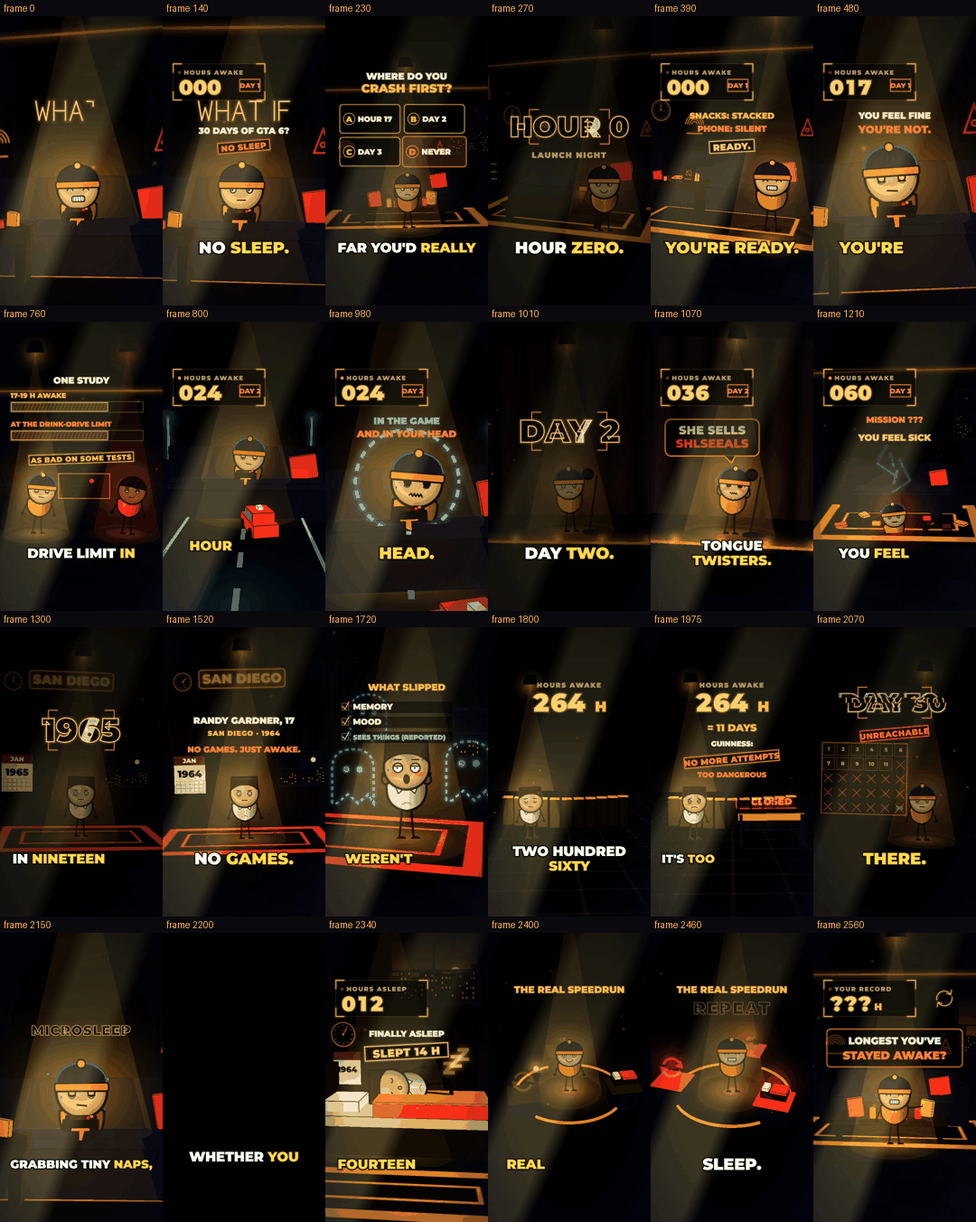
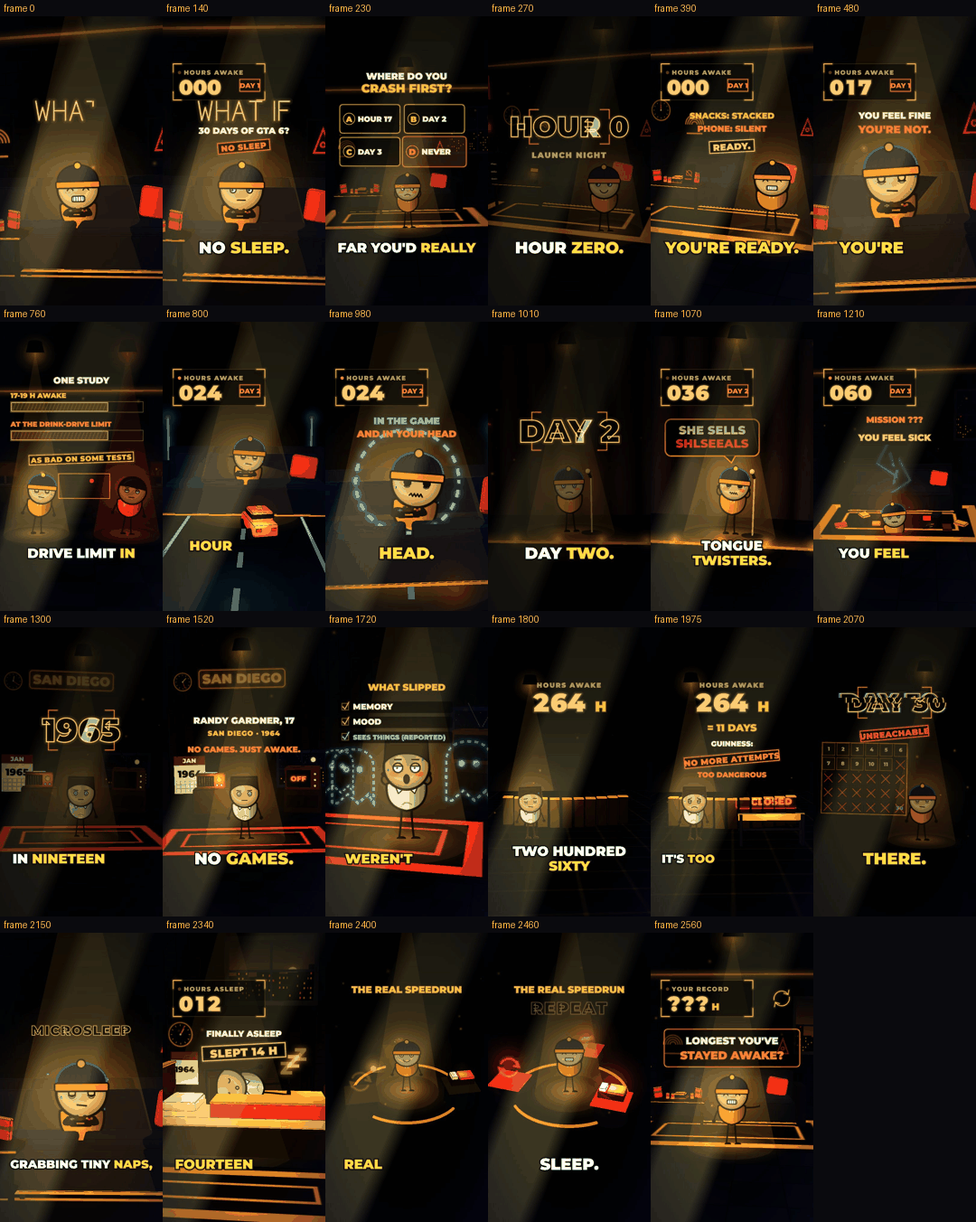
wi-gta-nosleep: Blender props (12 glb) + lighting rig in every scene
Glb loader in the Stick3D toon look (outlines, emissive parts unlit, box fallback); couch, side table,
snacks, controller, phone, toy car, mic, 1964 radio/TV/bed; key + fill + rim + practical lights per scene.

Claude-Session: https://claude.ai/code/session_019RediFF51hqccXe4quizri

diff --git a/episodes/wi-gta-nosleep/story.tsx b/episodes/wi-gta-nosleep/story.tsx
@@ -23,6 +23,7 @@ import { Person, V3, clamp, Lights, Grade } from "../../library/stick3d/kit";
 import { NEON3D, REMY3D } from "../../src/tests/Stick3DTest";
 import { Floor, WallDoor, SideWall, Shelf, Lamp, Monitor, Cabinet, Rug, Shaft, Dust } from "../../library/stick3d/props";
 import { Cam, Key, Taxi, Barrier, Curtain } from "../../library/stick3d/extra";
+import { Glb } from "../../library/stick3d/glb";
 import { drawPuppet, Look, Pose } from "../../library/stick3d/puppet";
 import { N3, FONT3, Halo, FloorPool, NeonBar, HeroLight, Motes, Panel, NeonSign, NeonClock, NightWindow, NeonPoster } from "../../library/stick3d/neon";
 import scenes from "../../content/scripts/wi-gta-nosleep.json";
@@ -49,8 +50,16 @@ const ck = (u: number, pos: V3, look: V3, fov = 46, roll = 0): Key => ({ t: u / 
 const Shot: React.FC<{ u: number; keys: Key[]; kicks?: number[]; impacts?: [number, number][] }> = ({ u, keys, kicks = [], impacts = [] }) =>
   <Cam t={u / FPS} keys={keys} fovKick={kicks.map((x) => x / FPS)} impacts={impacts.map(([a, b]) => [a / FPS, b] as [number, number])} />;
 /** the pack's Lights (Stick3DTest: warm "#ffd59a") + its gold light Shaft and Dust, as in the install test */
-const Lights3: React.FC<{ warm?: string; k?: number }> = ({ warm = "#ffd59a" }) => (<>
-  <Lights warm={warm} />
+/** Lighting rig for every scene: warm KEY from front-top, cool sky/ground FILL, gold RIM from behind the hero, a soft
+ *  pool over the hero, plus motivated practicals (lamp, TV/game glow, neon, window) as point lights; the pack's Shaft. */
+type Prac = [V3, string, number];
+const Lights3: React.FC<{ warm?: string; k?: number; hero?: V3; prac?: Prac[]; rim?: string }> = ({ warm = "#ffd59a", k: kk = 1, hero = [0, 0, 0], prac = [], rim = N3.gold }) => (<>
+  <ambientLight intensity={0.6 * kk} />
+  <hemisphereLight args={["#8fa4e0", "#2a1a10", 0.75 * kk]} />
+  <directionalLight position={[hero[0] + 4, 8, hero[2] + 7]} intensity={1.7 * kk} color={warm} />
+  <directionalLight position={[hero[0] - 3, 5, hero[2] - 8]} intensity={1.3} color={rim} />
+  <pointLight position={[hero[0], 3.4, hero[2] + 0.8]} intensity={9} distance={7} decay={2} color={N3.amber} />
+  {prac.map(([pp, c, i], j) => <pointLight key={j} position={pp} intensity={i} distance={9} decay={2} color={c} />)}
   <Shaft p={[0, 4, -1]} s={[3, 9]} color="245,185,66" o={0.14} />
 </>);
 /** puppet (Person) with a warm rim halo behind it so it separates from the dark room */
@@ -61,9 +70,10 @@ const Hero: React.FC<{ p: V3; look: Look; pose: Omit<Pose, "t">; f: number; h?: 
 /** small game controller held at a puppet's hands (arms "hold") */
 const Pad: React.FC<{ p: V3; f: number; rot?: V3 }> = ({ p, f, rot = [0.35, 0, 0] }) => (
   <group position={[p[0] + Math.sin(f * 1.7) * 0.01, p[1] + Math.sin(f * 2.3) * 0.012, p[2]]} rotation={rot}>
-    <Box p={[0, 0, 0]} s={[0.56, 0.12, 0.26]} color="#1c2032" line={2} />
-    <Box p={[-0.24, -0.02, 0.1]} s={[0.16, 0.12, 0.2]} color="#1c2032" line={2} /><Box p={[0.24, -0.02, 0.1]} s={[0.16, 0.12, 0.2]} color="#1c2032" line={2} />
-    <Ball p={[0.13, 0.07, 0]} r={0.03} color={N3.coral} ink={0.01} /><Ball p={[0.19, 0.07, -0.05]} r={0.03} color={N3.gold} ink={0.01} />
+    <Glb name="game_controller" line={2} fallback={<>
+      <Box p={[0, 0, 0]} s={[0.56, 0.12, 0.26]} color="#1c2032" line={2} />
+      <Box p={[-0.24, -0.02, 0.1]} s={[0.16, 0.12, 0.2]} color="#1c2032" line={2} /><Box p={[0.24, -0.02, 0.1]} s={[0.16, 0.12, 0.2]} color="#1c2032" line={2} />
+      <Ball p={[0.13, 0.07, 0]} r={0.03} color={N3.coral} ink={0.01} /><Ball p={[0.19, 0.07, -0.05]} r={0.03} color={N3.gold} ink={0.01} /></>} />
     <Halo p={[0, 0.05, 0.05]} r={0.25} color={N3.gold} o={0.25} />
   </group>
 );
@@ -77,18 +87,19 @@ const SNACK_COLS = [N3.coral, N3.gold, "#2a3355", N3.amber, "#7a2f26"];
 /** snacks on the coffee table; n = how many have popped in (fraction pops) */
 const Snacks: React.FC<{ n: number; x?: number; z?: number; y?: number }> = ({ n, x = 0, z = 0.9, y = 0.62 }) => {
   const items = [
-    (s: number) => <Box p={[-1.15, 0.3 * s, 0]} s={[0.5, 0.62, 0.18]} rot={[0, 0.3, 0.12]} color={N3.coral} line={3} />,
-    (s: number) => <Cyl p={[-0.55, 0.17 * s, 0.2]} rt={0.1} h={0.34} color={N3.gold} line={2} />,
-    (s: number) => <Box p={[0.1, 0.06 * s, -0.15]} s={[0.95, 0.1, 0.95]} color="#b9772e" line={3} />,
-    (s: number) => <Cyl p={[0.9, 0.17 * s, 0.1]} rt={0.1} h={0.34} color={N3.coral} line={2} />,
+    (s: number) => <Glb name="chips_bag" p={[-1.15, 0, 0]} rot={[0, 0.3, 0.12]} fallback={<Box p={[-1.15, 0.3 * s, 0]} s={[0.5, 0.62, 0.18]} rot={[0, 0.3, 0.12]} color={N3.coral} line={3} />} />,
+    (s: number) => <Glb name="soda_can" p={[-0.55, 0, 0.2]} line={2} fallback={<Cyl p={[-0.55, 0.17 * s, 0.2]} rt={0.1} h={0.34} color={N3.gold} line={2} />} />,
+    (s: number) => <Glb name="pizza_box" p={[0.1, 0, -0.15]} fallback={<Box p={[0.1, 0.06 * s, -0.15]} s={[0.95, 0.1, 0.95]} color="#b9772e" line={3} />} />,
+    (s: number) => <Glb name="soda_can" p={[0.9, 0, 0.1]} rot={[0, 1, 0]} line={2} fallback={<Cyl p={[0.9, 0.17 * s, 0.1]} rt={0.1} h={0.34} color={N3.coral} line={2} />} />,
     (s: number) => <Box p={[0.1, 0.16 * s, -0.15]} s={[0.8, 0.1, 0.8]} color="#2a3355" line={3} />,
-    (s: number) => <Box p={[1.2, 0.27 * s, -0.25]} s={[0.42, 0.55, 0.16]} rot={[0, -0.4, -0.1]} color={N3.amber} line={3} />,
-    (s: number) => <Cyl p={[-0.2, 0.25 * s, 0.35]} rt={0.1} h={0.34} color="#7a2f26" line={2} />,
+    (s: number) => <Glb name="chips_bag" p={[1.2, 0, -0.25]} rot={[0, -0.4, -0.1]} s={0.9} fallback={<Box p={[1.2, 0.27 * s, -0.25]} s={[0.42, 0.55, 0.16]} rot={[0, -0.4, -0.1]} color={N3.amber} line={3} />} />,
+    (s: number) => <Glb name="soda_can" p={[-0.2, 0.0, 0.35]} rot={[0, 2, 0]} line={2} fallback={<Cyl p={[-0.2, 0.25 * s, 0.35]} rt={0.1} h={0.34} color="#7a2f26" line={2} />} />,
     (s: number) => <Box p={[0.15, 0.26 * s, -0.15]} s={[0.6, 0.1, 0.6]} color={N3.gold} line={3} />,
   ];
   return <group position={[x, y, z]}>{items.map((it, i) => { const s = clamp(n - i); return s > 0.01 ? <group key={i} scale={[s, s, s]}>{it(s)}</group> : null; })}</group>;
 };
-const Couch: React.FC<{ z?: number }> = ({ z = -1.3 }) => (
+const Couch: React.FC<{ z?: number }> = ({ z = -1.3 }) => <Glb name="couch" p={[0, 0, z]} fallback={<CouchBox z={z} />} />;
+const CouchBox: React.FC<{ z?: number }> = ({ z = -1.3 }) => (
   <group position={[0, 0, z]}>
     <Box p={[0, 0.42, 0]} s={[4.8, 0.84, 1.5]} color={N3.navy2} />
     <Box p={[0, 1.3, -0.62]} s={[4.8, 1.3, 0.34]} color={N3.navy2} />
@@ -104,10 +115,10 @@ const Table: React.FC<{ z?: number }> = ({ z = 0.9 }) => (
   </group>
 );
 /** Remy's gaming den (navy brick, gold/coral neon, night window, clock, shelf, lamp, couch, table, rug, beanbag) */
-const GamerRoom: React.FC<{ t: number; dawn?: number; clockH?: number; table?: boolean; snacks?: number; tvGlow?: number; decor?: boolean }> = ({ t, dawn = 0, clockH = 0, table = true, snacks = 8, tvGlow = 1, decor = true }) => {
+const GamerRoom: React.FC<{ t: number; dawn?: number; clockH?: number; table?: boolean; snacks?: number; tvGlow?: number; decor?: boolean; hero?: V3 }> = ({ t, dawn = 0, clockH = 0, table = true, snacks = 8, tvGlow = 1, decor = true, hero = [0, 0, -1.35] }) => {
   const tv = tvGlow * (0.75 + 0.25 * Math.abs(Math.sin(t * 9.3) * Math.cos(t * 3.9)));
   return (<>
-    <Lights3 warm={dawn > 0.4 ? "#ffd59a" : "#ffcf9a"} k={0.95 + 0.15 * dawn} />
+    <Lights3 warm={dawn > 0.4 ? "#ffd59a" : "#ffcf9a"} k={0.95 + 0.15 * dawn} hero={hero} prac={[[[7.2, 2.6, -2.9], N3.amber, 14], [[4.4, 3.9, -4.2], dawn > 0.3 ? N3.amber : "#7d8fd8", 6 + 14 * dawn], [[0, 5.9, -4.3], N3.gold, 8], [[-6.0, 3.0, -4.3], N3.coral, 6]]} />
     <Floor kind="tile" a={NEON3D.floorA} b={NEON3D.floorB} w={30} d={44} />
     <WallDoor z={-5} W={24} kind="brick" a={NEON3D.wallA} b={NEON3D.wallB} />
     <SideWall x={-9} kind="plain" a="#0e1120" b="#0e1120" />
@@ -126,7 +137,7 @@ const GamerRoom: React.FC<{ t: number; dawn?: number; clockH?: number; table?: b
     <Rug p={[0, 0, 0.3]} s={[7.5, 4.4]} a="#120d09" b={N3.gold} />
     <Couch />
     {/* snack side table beside the couch (not in the foreground: nothing important in the caption band) */}
-    {table && <><group position={[-1.9, 0, -0.2]} scale={[0.6, 1.75, 0.8]}><Table z={0} /></group><group position={[-1.9, 0, -0.2]} scale={[0.6, 0.6, 0.6]}><Snacks n={snacks} x={0} z={0} y={1.72} /></group></>}
+    {table && <><Glb name="side_table" p={[-1.9, 0, -0.2]} fallback={<group position={[-1.9, 0, -0.2]} scale={[0.6, 1.75, 0.8]}><Table z={0} /></group>} /><group position={[-1.9, 0, -0.2]} scale={[0.6, 0.6, 0.6]}><Snacks n={snacks} x={0} z={0} y={1.72} /></group></>}
     <pointLight position={[0, 1.8, 4.0]} intensity={6 * tv} distance={10} decay={1.4} color="#ffcf9a" />
     <Halo p={[0, 1.6, 2.6]} r={2.6} color={N3.amber} o={0.05 * tv} />
     <Motes t={t} n={10} c={[0, 0.5, -1]} area={[5, 5, 3]} />
@@ -161,7 +172,7 @@ const build = (id: string, f: number, u: number, len: number, C: (p: string, fb:
     case "crash": { // the only CHOICE CARDS: where do you crash first? Remy stands on the rug scratching his beanie
       const pick = u < 24 ? -1 : Math.floor((u - 24) / 10) % 4;
       const world = <>
-        <GamerRoom t={t} />
+        <GamerRoom t={t} hero={[0.2, 0, 2.2]} />
         <Hero p={[0.2, 0, 2.2]} look={REMY} pose={{ arms: "head", mood: "worry", nerv: 0.5, lookX: pick >= 0 ? [-1, 1, -1, 1][pick] : 0 }} f={f} rimO={0.4} />
         <HeroLight p={[0.2, 0, 2.2]} h={6} r={1.3} t={t} />
         <Shot u={u} keys={[ck(0, [-0.8, 3.3, 15.2], [0.1, 2.56, 2.2], 46, -0.02), ck(len, [0.2, 3.2, 14.8], [0.2, 2.54, 2.2], 46, 0.02)]} />
@@ -182,10 +193,10 @@ const build = (id: string, f: number, u: number, len: number, C: (p: string, fb:
       const ready = u >= YR;
       const jump = ready ? Math.max(0, Math.sin(((u - YR) / 14) * Math.PI)) * (u - YR < 14 ? 1 : 0) : 0;
       const world = <>
-        <GamerRoom t={t} snacks={nSn} />
+        <GamerRoom t={t} snacks={nSn} hero={[1.9, 0, 1.6]} />
         <group position={[-1.3, 1.07, 0.05]} rotation={[-0.35, 0.2, 0]}>
-          <Box p={[0, 0.3, 0]} s={[0.4, 0.7, 0.05]} color="#11131f" line={3} />
-          <Panel p={[0, 0.3, 0.03]} s={[0.34, 0.62]} px={[136, 248]} dep={(silent ? 1 : 0) + Math.floor(u / 6) % 2 * 2} draw={(c, W, H) => {
+          <Glb name="smartphone" p={[0, 0.3, 0]} line={2} fallback={<Box p={[0, 0.3, 0]} s={[0.4, 0.7, 0.05]} color="#11131f" line={3} />} />
+          <Panel p={[0, 0.3, 0.035]} s={[0.34, 0.62]} px={[136, 248]} dep={(silent ? 1 : 0) + Math.floor(u / 6) % 2 * 2} draw={(c, W, H) => {
             c.fillStyle = "#0a0c16"; c.fillRect(0, 0, W, H); c.textAlign = "center"; c.font = `900 26px ${FONT3}`;
             if (silent) { c.strokeStyle = CORAL; c.lineWidth = 7; c.beginPath(); c.arc(W / 2, H * 0.42, 34, Math.PI, 0); c.lineTo(W / 2 + 34, H * 0.55); c.lineTo(W / 2 - 34, H * 0.55); c.closePath(); c.stroke(); c.beginPath(); c.moveTo(W / 2 - 46, H * 0.3); c.lineTo(W / 2 + 46, H * 0.62); c.stroke(); c.fillStyle = CORAL; c.fillText("SILENT", W / 2, H * 0.8); }
             else { for (let i = 0; i < 3; i++) { c.fillStyle = i === 0 && Math.floor(u / 6) % 2 ? GOLD : "#2a2f45"; c.fillRect(12, 30 + i * 62, W - 24, 48); } }
@@ -227,7 +238,7 @@ const build = (id: string, f: number, u: number, len: number, C: (p: string, fb:
       const sway = Math.sin(f * 0.11) * (0.04 + 0.06 * k(u, AS, AS + 20, 0, 1));
       const slump = k(u, AS, AS + 16, 0, 1, EASE.arrive);
       const world = <>
-        <Lights3 />
+        <Lights3 hero={[0, 0, 0.6]} prac={[[[-3.6, 1.8, -2.9], N3.gold, 7], [[3.6, 1.8, -2.9], N3.gold, 7], [[0, 1.4, -4.3], N3.coral, 5], [[0, 5.3, -4.3], N3.gold, 8]]} />
         <Floor kind="tile" a="#141a2a" b="#10141f" w={30} d={44} />
         <WallDoor z={-5} W={24} kind="plain" a="#151a2b" b="#151a2b" />
         <NeonBar p={[0, 5.6, -4.9]} s={[13, 0.07, 0.05]} color={N3.gold} />
@@ -263,14 +274,14 @@ const build = (id: string, f: number, u: number, len: number, C: (p: string, fb:
       const roll = 0.05 * sway * (0.4 + 0.6 * head);
       const dash = (u * 0.09) % 1.6;
       const world = <>
-        <Lights3 k={0.8} />
+        <Lights3 k={0.75} hero={[0, 0, -7.5]} rim={N3.cyan} prac={[[[0, 0.6, -3], N3.cyan, 10], [[-2.6, 2.6, -5.6], N3.cyan, 8], [[2.6, 2.6, -2.4], N3.cyan, 8], [[sway * 0.9, 0.6, -4.9], N3.coral, 4]]} />
         <Floor kind="tile" a="#07080e" b="#090b12" w={30} d={40} />
         <mesh position={[0, 0.01, -2]} rotation={[-Math.PI / 2, 0, 0]}><planeGeometry args={[3.2, 30]} /><meshBasicMaterial color="#0d1220" /></mesh>
         {[-1.6, 1.6].map((x) => <NeonBar key={x} p={[x, 0.04, -2]} s={[0.06, 0.04, 30]} color={CYAN} glow={0} />)}
         {Array.from({ length: 14 }, (_, i) => <NeonBar key={i} p={[0, 0.03, 8 - i * 1.6 + dash]} s={[0.1, 0.03, 0.7]} color={CYAN} glow={0} o={0.8} />)}
         {Array.from({ length: 6 }, (_, i) => <group key={i}><NeonBar p={[i % 2 ? 2.6 : -2.6, 1.4, 4 - i * 3.2]} s={[0.06, 2.8, 0.06]} color={CYAN} glow={0.3} /><Halo p={[i % 2 ? 2.6 : -2.6, 2.85, 4 - i * 3.2]} r={0.5} color={CYAN} o={0.6} /></group>)}
         <FloorPool p={[0, 0, -2]} r={3} color={CYAN} o={0.15} sx={0.6} />
-        <group position={[sway * 0.9, 0, -5.6]} rotation={[0, Math.PI / 2 + 0.35 * Math.cos(u * 0.07), 0]} scale={0.32}><Taxi p={[0, 0, 0]} color={CORAL} /></group>
+        <group position={[sway * 0.9 - k(u, IG, IG + 36, 0, 5, Easing.in(Easing.quad)), 0, -5.6]} rotation={[0, Math.PI / 2 + 0.35 * Math.cos(u * 0.07), 0]}><Glb name="toy_car" fallback={<group scale={0.32}><Taxi p={[0, 0, 0]} color={CORAL} /></group>} /></group>
         <Halo p={[sway * 0.9, 0.3, -6.0]} r={0.6} color={CORAL} o={0.3} />
         <Couch z={-7.5} />
         <Hero p={[0, 0.2, -7.55]} look={REMY} pose={{ arms: "hold", mood: head > 0.5 ? "dizzy" : "tired", lids: 0.3, bags: 0.8, sweat: 0.5, tilt: 0.16 * sway }} f={f} shadow={false} rimO={0.5} />
@@ -298,15 +309,16 @@ const build = (id: string, f: number, u: number, len: number, C: (p: string, fb:
       const bp = pop(u, chapOut + 2, 12);
       const wob = Math.sin(f * 0.13) * 0.08 * k(u, BS, BS + 20, 0.3, 1);
       const world = <>
-        <Lights3 k={0.85} />
+        <Lights3 k={0.85} hero={[0.15, 0.5, 0.5]} rim={N3.coral} prac={[[[0, 0.9, 2.4], N3.amber, 12], [[-4.2, 4.6, -2.1], N3.coral, 6], [[4.2, 4.6, -2.1], N3.coral, 6], [[0, 3, -3.8], N3.coral, 5]]} />
         <Floor kind="plank" a="#16100b" b="#120d08" w={30} d={44} />
         <Curtain p={[0, 4.2, -4.6]} s={[16, 8.6]} color="#3a1612" folds={12} />
         <Box p={[0, 0.25, -0.5]} s={[9, 0.5, 5]} color="#1b1410" />
         <NeonBar p={[0, 0.52, 2.02]} s={[9, 0.06, 0.06]} color={N3.gold} />
         {Array.from({ length: 7 }, (_, i) => <Halo key={i} p={[-3.6 + i * 1.2, 0.62, 2.05]} r={0.32} color={N3.amber} o={0.7} />)}
-        <Cyl p={[0.9, 1.4, 0.75]} rt={0.03} h={1.8} color="#2b3350" line={2} rot={[0, 0, -0.15]} />
-        <Cyl p={[0.9, 0.55, 0.75]} rt={0.35} h={0.06} color="#2b3350" line={2} />
-        <Ball p={[0.76, 2.35, 0.78]} r={0.12} color="#3a3f55" />
+        <Glb name="mic_stand" p={[0.85, 0.5, 0.75]} rot={[0, -0.5, 0]} fallback={<>
+          <Cyl p={[0.9, 1.4, 0.75]} rt={0.03} h={1.8} color="#2b3350" line={2} rot={[0, 0, -0.15]} />
+          <Cyl p={[0.9, 0.55, 0.75]} rt={0.35} h={0.06} color="#2b3350" line={2} />
+          <Ball p={[0.76, 2.35, 0.78]} r={0.12} color="#3a3f55" /></>} />
         <Hero p={[0.15, 0.5, 0.5]} look={REMY} pose={{ mood: scr ? "dizzy" : "worry", nerv: 0.6, sweat: 0.6, lids: 0.25, bags: 0.8, tilt: wob, arms: scr ? "head" : "chest", armK: 0.9 }} f={f} rimO={0.5} />
         <HeroLight p={[0.15, 0.5, 0.5]} h={6} r={1.4} t={t} />
         {[-4.2, 4.2].map((x) => <group key={x}><Cyl p={[x, 2.2, -2.5]} rt={0.5} h={4.4} color="#1d2236" /><NeonBar p={[x, 4.45, -2.5]} s={[1.0, 0.06, 1.0]} color={N3.coral} glow={0.3} /></group>)}
@@ -330,7 +342,7 @@ const build = (id: string, f: number, u: number, len: number, C: (p: string, fb:
       const broken = k(u, FM + 16, FM + 50, 0, 1);
       const sick = u >= FS;
       const world = <>
-        <GamerRoom t={t} table={false} clockH={60} decor={false} />
+        <GamerRoom t={t} table={false} clockH={60} decor={false} hero={[0, 0, 1.5]} />
         {[[-2.4, 0.9, 0.4], [2.6, 0.6, -0.6], [1.6, -0.3, 1.2], [-1.6, -0.2, 2.2], [2.0, 1.0, 1.6]].map(([x, z, r], i) =>
           <Box key={i} p={[x, 0.06, z]} s={[0.5, 0.08, 0.36]} rot={[0, r, 0]} color={SNACK_COLS[i % 5]} line={3} />)}
         {[[-0.9, 0.8], [1.2, 0.2]].map(([x, z], i) => <Cyl key={i} p={[x, 0.1, z]} rt={0.1} h={0.34} rot={[0, 0, Math.PI / 2]} color={i ? N3.coral : N3.gold} line={2} />)}
@@ -361,7 +373,7 @@ const build = (id: string, f: number, u: number, len: number, C: (p: string, fb:
       const gp = isR ? 0 : k(u, ST - 4, ST + 18, 0, 1, EASE.arrive);
       const randyMood: Pose["mood"] = isR ? (u >= NG ? "deadpan" : u >= RG ? "smile" : "deadpan") : (u >= ST ? "shock" : u >= MO_ ? "worry" : "tired");
       const world = <>
-        <Lights3 warm="#ffd7a0" />
+        <Lights3 warm="#ffd7a0" hero={[isR ? 0 : 1.2, 0, 0.6]} prac={[[[4.6, 2.6, -1.2], N3.amber, 12], [[0, 5.8, -4.2], N3.gold, 9], [[-1.2, 1.6, -3.6], N3.amber, 5], [[2.8, 1.9, -4.4], "#7d8fd8", 5], ...(!isR ? [[[1.2, 2.4, -0.8], N3.cyan, 10 * gp] as Prac] : [])]} />
         <Floor kind="carpet" a="#1a1626" b="#16121f" w={30} d={44} />
         <WallDoor z={-5} W={24} kind="wood" a="#2a1b10" b="#23160c" />
         <SideWall x={-9} kind="wood" a="#24170d" b="#1f140b" />
@@ -373,18 +385,18 @@ const build = (id: string, f: number, u: number, len: number, C: (p: string, fb:
         <NeonSign p={[0, 6.2, -4.85]} s={[4.2, 1.0]} text="SAN DIEGO" color={N3.gold} box />
         <NightWindow p={[2.8, 1.9, -4.92]} s={[2.2, 1.5]} seed={9} palm />
         <NeonClock p={[-2.8, 6.1, -4.88]} r={0.45} hours={u / 200} />
-        <group position={[-6.2, 0, -3.6]}><Box p={[0, 0.55, 0]} s={[1.8, 1.1, 1.0]} color="#3a2412" /><Box p={[0, 1.45, 0.05]} s={[1.4, 0.7, 0.6]} color="#5a3a1e" />
-          <Panel p={[0, 1.45, 0.36]} s={[1.0, 0.45]} px={[200, 90]} dep={1} draw={(c, W, H) => { c.fillStyle = "#1a1008"; c.fillRect(0, 0, W, H); c.strokeStyle = N3.amber; c.lineWidth = 3; for (let x = 10; x < W * 0.6; x += 10) { c.beginPath(); c.moveTo(x, 8); c.lineTo(x, H - 8); c.stroke(); } c.fillStyle = N3.amber; c.beginPath(); c.arc(W * 0.8, H / 2, 18, 0, 7); c.fill(); }} />
-          <Halo p={[0.35, 1.45, 0.4]} r={0.25} color={N3.amber} o={0.5} /></group>
-        <group position={[6.0, 0, -3.2]}><Box p={[0, 0.5, 0]} s={[1.6, 1.0, 1.2]} color="#3a2412" /><Box p={[0, 1.55, 0]} s={[1.6, 1.2, 1.2]} color="#4a3220" />
-          <Box p={[-0.1, 1.55, 0.61]} s={[1.1, 0.85, 0.02]} color="#1c1f26" line={3} /><Cyl p={[-0.2, 2.45, 0]} rt={0.02} h={0.8} rot={[0, 0, 0.5]} color="#9aa0b8" line={1} /><Cyl p={[0.2, 2.45, 0]} rt={0.02} h={0.8} rot={[0, 0, -0.5]} color="#9aa0b8" line={1} />
-          {isR && u >= NG && <NeonSign p={[-0.1, 1.55, 0.65]} s={[1.0, 0.5]} text="OFF" color={N3.coral} />}</group>
+        {isR && <group position={[-1.5, 0, -4.2]}><Box p={[0, 0.55, 0]} s={[1.6, 1.1, 0.9]} color="#3a2412" /><Glb name="radio_1964" p={[0, 1.1, 0.05]} fallback={<><Box p={[0, 1.45, 0.05]} s={[1.4, 0.7, 0.6]} color="#5a3a1e" />
+          <Panel p={[0, 1.45, 0.36]} s={[1.0, 0.45]} px={[200, 90]} dep={1} draw={(c, W, H) => { c.fillStyle = "#1a1008"; c.fillRect(0, 0, W, H); c.strokeStyle = N3.amber; c.lineWidth = 3; for (let x = 10; x < W * 0.6; x += 10) { c.beginPath(); c.moveTo(x, 8); c.lineTo(x, H - 8); c.stroke(); } c.fillStyle = N3.amber; c.beginPath(); c.arc(W * 0.8, H / 2, 18, 0, 7); c.fill(); }} /></>} />
+          <Halo p={[0.38, 1.55, 0.45]} r={0.25} color={N3.amber} o={0.5} /></group>}
+        <group position={[2.6, 0, -3.5]} rotation={[0, -0.25, 0]}><Glb name="tv_1964" fallback={<><Box p={[0, 0.5, 0]} s={[1.6, 1.0, 1.2]} color="#3a2412" /><Box p={[0, 1.55, 0]} s={[1.6, 1.2, 1.2]} color="#4a3220" />
+          <Box p={[-0.1, 1.55, 0.61]} s={[1.1, 0.85, 0.02]} color="#1c1f26" line={3} /><Cyl p={[-0.2, 2.45, 0]} rt={0.02} h={0.8} rot={[0, 0, 0.5]} color="#9aa0b8" line={1} /><Cyl p={[0.2, 2.45, 0]} rt={0.02} h={0.8} rot={[0, 0, -0.5]} color="#9aa0b8" line={1} /></>} />
+          {isR && u >= NG && <NeonSign p={[-0.15, 1.6, 0.6]} s={[1.0, 0.5]} text="OFF" color={N3.coral} />}</group>
         <group position={[-4.4, 0, -1.6]} rotation={[0, 0.5, 0]}><Box p={[0, 0.45, 0]} s={[1.5, 0.9, 1.4]} color="#5a2a20" /><Box p={[0, 1.25, -0.6]} s={[1.5, 1.3, 0.3]} color="#5a2a20" /><Box p={[-0.7, 0.9, 0]} s={[0.24, 0.6, 1.4]} color="#4a2018" /><Box p={[0.7, 0.9, 0]} s={[0.24, 0.6, 1.4]} color="#4a2018" /></group>
         <Lamp p={[4.6, 0, -1.6]} color={N3.amber} /><Halo p={[4.6, 2.75, -1.6]} r={0.9} color={N3.amber} o={0.6} />
         <Rug p={[0, 0, 0.6]} s={[6, 3.6]} a="#2a1410" b={N3.coral} />
         <Hero p={[isR ? 0 : 1.2, 0, 0.6]} look={RANDY} pose={{ mood: randyMood, arms: isR && u >= RG && u < NG ? "up" : isR ? "down" : u >= ST ? "head" : "chest", armK: 0.85, lids: isR ? 0 : 0.35, bags: isR ? 0.2 : 0.8, sweat: isR ? 0 : 0.5, nerv: !isR && u >= ST ? 0.7 : 0, lookX: !isR && u >= ST ? Math.sin(f * 0.2) : 0 }} f={f} rim={N3.amber} rimO={0.45} />
         <HeroLight p={[isR ? 0 : 1.2, 0, 0.6]} h={6} r={1.3} t={t} />
-        {!isR && gp > 0 && [[-0.3, 1.2, -0.4], [2.4, 1.3, -0.2], [-0.4, 2.3, -2.0]].map(([x, y, z], i) => (
+        {!isR && gp > 0 && [[-0.3, 1.2, -0.4], [2.4, 1.3, -0.2], [-1.6, 0.7, -2.6]].map(([x, y, z], i) => (
           <Panel key={i} p={[x, y + 0.15 * Math.sin(f * 0.08 + i), z]} s={[1.3, 1.5]} px={[160, 184]} additive face o={gp * 0.85} dep={i} draw={(c, W, H) => {
             c.strokeStyle = CYAN; c.shadowColor = CYAN; c.shadowBlur = 12; c.lineWidth = 6; c.setLineDash([10, 9]);
             c.beginPath(); c.moveTo(20, H - 14); c.lineTo(20, 70); c.quadraticCurveTo(20, 14, W / 2, 14); c.quadraticCurveTo(W - 20, 14, W - 20, 70); c.lineTo(W - 20, H - 14);
@@ -424,7 +436,7 @@ const build = (id: string, f: number, u: number, len: number, C: (p: string, fb:
       const BA = GU + 26;
       const by = u < BA - 10 ? 6 : u < BA ? k(u, BA - 10, BA, 6, 0, Easing.in(Easing.quad)) : Math.abs(Math.sin((u - BA) * 0.35)) * 0.4 * Math.exp(-(u - BA) * 0.12);
       const world = <>
-        <Lights3 k={0.9} />
+        <Lights3 k={0.9} hero={[-1.5, 0, 0.6]} prac={[[[0, 1.8, -1.4], N3.gold, 3 + 9 * clamp(v / 264)], [[1.4, 1.8, 2.0], N3.coral, u >= BA ? 9 : 0]]} />
         <Panel p={[0, 0, 2]} s={[40, 40]} rot={[-Math.PI / 2, 0, 0]} px={[800, 800]} dep={1} draw={(c, W, H) => {
           c.fillStyle = "#06070c"; c.fillRect(0, 0, W, H); c.strokeStyle = "rgba(245,185,66,.22)"; c.lineWidth = 2; for (let i = 0; i <= 30; i++) { c.beginPath(); c.moveTo((i * W) / 30, 0); c.lineTo((i * W) / 30, H); c.moveTo(0, (i * H) / 30); c.lineTo(W, (i * H) / 30); c.stroke(); }
         }} />
@@ -461,7 +473,7 @@ const build = (id: string, f: number, u: number, len: number, C: (p: string, fb:
       const gl = k(u, 16, YN, 0.2, 1) * (0.6 + 0.4 * Math.abs(Math.sin(u * 0.9)));
       const nod = 0.5 + 0.5 * Math.sin(f * 0.12);
       const world = <>
-        <Lights3 k={0.85} />
+        <Lights3 k={0.85} hero={[2.4, 0, 0.4]} prac={[[[-0.3, 2.0, -3.0], N3.gold, 10], [[1.0, 0.9, -3.2], Math.floor(u / 3) % 2 ? N3.cyan : N3.coral, 4]]} />
         <Floor kind="tile" a="#0b0d16" b="#0e111c" w={30} d={44} />
         <WallDoor z={-4} W={24} kind="plain" a="#10131f" b="#10131f" />
         <Panel p={[-0.3, 2.0, -3.9]} s={[4.2, 3.5]} px={[660, 550]} dep={lit * 10 + (cross ? 1 : 0) + Math.floor(u / 3) * 100} draw={(c, W, H) => {
@@ -510,17 +522,18 @@ const build = (id: string, f: number, u: number, len: number, C: (p: string, fb:
       const FH = C("fourteen hours", 77);
       const hrs = k(u, 0, len, 0, 14, EASE.camera);
       const world = <>
-        <Lights3 warm="#ffd7a0" k={0.9} />
+        <Lights3 warm="#ffd7a0" k={0.9} hero={[-0.4, 0, -1.4]} prac={[[[3.2, 2.0, -2.0], N3.amber, 10], [[0.6, 4.5, -3.3], k(u, 0, len, 0, 1) > 0.4 ? N3.amber : "#7d8fd8", 4 + 10 * k(u, 0, len, 0, 0.8)]]} />
         <Floor kind="carpet" a="#1a1626" b="#16121f" />
         <WallDoor z={-4} W={24} kind="wood" a="#2a1b10" b="#23160c" />
         <NightWindow p={[0.6, 4.7, -3.92]} s={[2.6, 1.8]} dawn={k(u, 0, len, 0, 0.8)} seed={11} />
         <NeonClock p={[-2.3, 2.75, -3.9]} r={0.42} hours={hrs} />
         <Panel p={[-2.2, 1.65, -3.92]} s={[0.9, 1.08]} px={[200, 240]} dep={1964} draw={(c, W, H) => { c.fillStyle = "#f3e7cf"; c.fillRect(0, 0, W, H); c.fillStyle = "#9a3a2a"; c.fillRect(0, 0, W, 60); c.fillStyle = "#2a1b10"; c.textAlign = "center"; c.font = `900 60px ${FONT3}`; c.fillText("1964", W / 2, 150); }} />
         <group position={[0, 0, -1.6]}>
+          <Glb name="bed_1964" fallback={<>
           <Box p={[0, 0.35, 0]} s={[4.4, 0.7, 2.2]} color="#3a2412" />
           <Box p={[-2.25, 1.0, 0]} s={[0.2, 2.0, 2.3]} color="#4a2e18" /><Box p={[2.25, 0.7, 0]} s={[0.2, 1.4, 2.3]} color="#4a2e18" />
           <Box p={[0, 0.82, 0]} s={[4.2, 0.26, 2.0]} color="#efe3cc" />
-          <Box p={[-1.6, 1.08, 0]} s={[0.9, 0.28, 1.2]} color="#fffaf0" />
+          <Box p={[-1.6, 1.08, 0]} s={[0.9, 0.28, 1.2]} color="#fffaf0" /></>} />
           <LyingPuppet p={[-0.1, 1.5, 0.15]} h={2.6} look={RANDY} pose={{ mood: "sleep", arms: "down" }} f={f} />
           <Box p={[0.65, 1.12 + 0.02 * Math.sin(f * 0.1), 0.35]} s={[2.7, 0.34, 1.5]} color={N3.coral} />
           <Box p={[0.65, 1.3 + 0.02 * Math.sin(f * 0.1), 0.35]} s={[2.72, 0.04, 1.52]} color={N3.gold} line={2} />
@@ -552,7 +565,7 @@ const build = (id: string, f: number, u: number, len: number, C: (p: string, fb:
       const word = mode === 3 ? "REPEAT" : mode === 2 ? "SLEEP" : mode === 1 ? "PLAY" : "";
       const oa = k(u, 0, len, -0.35, 0.35);
       const world = <>
-        <Lights3 k={0.9} />
+        <Lights3 k={0.9} hero={[0, 0, 0]} prac={st.map((x) => { const q = at(x.a); return [[q[0], 1.3, q[2]], u >= x.c ? N3.coral : N3.dim, u >= x.c ? 7 : 2] as Prac; })} />
         <Floor kind="tile" a="#080a12" b="#0b0d17" w={30} d={44} />
         <mesh position={[0, 0.04, 0]} rotation={[-Math.PI / 2, 0, 0]}><torusGeometry args={[R, 0.05, 8, 120, Math.PI * 2 * ring]} /><meshBasicMaterial color={N3.gold} toneMapped={false} /></mesh>
         <FloorPool p={[0, 0, 0]} r={R * 1.25} color={N3.gold} o={0.12} />
@@ -584,7 +597,7 @@ const build = (id: string, f: number, u: number, len: number, C: (p: string, fb:
     }
     default: { // ask: dawn in the den, Remy rested (grin), waves then points at the viewer; loop icon + the question card
       const world = <>
-        <GamerRoom t={t} dawn={0.85} clockH={8} />
+        <GamerRoom t={t} dawn={0.85} clockH={8} hero={[0.2, 0, 1.9]} />
         <Hero p={[0.2, 0, 1.9]} look={REMY} pose={{ mood: "grin", arms: u > 24 ? "point" : "up", armK: u > 24 ? 1 : 0.7 + 0.3 * Math.sin(f * 0.5), tilt: u > 24 ? 0 : 0.04 * Math.sin(f * 0.25) }} f={f} rimO={0.45} />
         <HeroLight p={[0.2, 0, 1.9]} h={6} r={1.3} t={t} />
         <Shot u={u} keys={[ck(0, [1.6, 3.1, 12.2], [0.2, 2.04, 1.9], 46, 0.02), ck(len, [0.8, 3.0, 11.75], [0.2, 2.02, 1.9], 46, -0.01)]} />

diff --git a/library/stick3d/glb.tsx b/library/stick3d/glb.tsx
@@ -1,0 +1,64 @@
+// Blender-made props (.glb, built headless by .github/workflows/blender-models.yml from blender/models/*.py) in the
+// Stick3D look: every mesh gets the engine's toon material (same 3-step ramp, colours + emissive from the model) and
+// thick ink outlines, so the props sit with the puppets and the box props. Files live in library/models (saved for
+// reuse) and are served through public/models -> ../library/models with staticFile. A missing file falls back to
+// `fallback` (old box props), so renders never fail before a model exists.
+import React, { useMemo, useState, useEffect } from "react";
+import * as THREE from "three";
+import { useThree } from "@react-three/fiber";
+import { staticFile, delayRender, continueRender } from "remotion";
+import { GLTFLoader } from "three/examples/jsm/loaders/GLTFLoader.js";
+import { LineSegments2 } from "three/examples/jsm/lines/LineSegments2.js";
+import { LineSegmentsGeometry } from "three/examples/jsm/lines/LineSegmentsGeometry.js";
+import { LineMaterial } from "three/examples/jsm/lines/LineMaterial.js";
+import { INK } from "./toon";
+import { V3 } from "./kit";
+
+const ramp = (() => { const d = new Uint8Array([90, 170, 255]); const t = new THREE.DataTexture(d, 3, 1, THREE.RedFormat); t.minFilter = t.magFilter = THREE.NearestFilter; t.needsUpdate = true; return t; })();
+const pending = new Map<string, Promise<THREE.Object3D | null>>();
+const done = new Map<string, THREE.Object3D | null>();
+
+/** loads models/<name>.glb once (delayRender until ready); null if it does not exist */
+export const useGlb = (name: string): THREE.Object3D | null => {
+  const url = staticFile(`models/${name}.glb`);
+  const [obj, setObj] = useState<THREE.Object3D | null>(done.get(url) ?? null);
+  const [handle] = useState(() => (done.has(url) ? null : delayRender(`glb ${name}`, { timeoutInMilliseconds: 60000 })));
+  useEffect(() => {
+    if (handle === null) return;
+    let p = pending.get(url);
+    if (!p) {
+      p = fetch(url).then((r) => (r.ok ? r.arrayBuffer() : null)).then((buf) => buf && buf.byteLength > 100
+        ? new Promise<THREE.Object3D | null>((res) => new GLTFLoader().parse(buf, "", (g) => res(g.scene), () => res(null)))
+        : null).catch(() => null);
+      pending.set(url, p);
+    }
+    p.then((o) => { done.set(url, o); setObj(o); continueRender(handle); });
+  }, [handle, url]);
+  return obj;
+};
+
+/** a Blender prop in toon style with ink outlines; `fallback` renders while/if the model is missing */
+export const Glb: React.FC<{ name: string; p?: V3; rot?: V3; s?: number | V3; line?: number; fallback?: React.ReactNode; tint?: number }> = ({ name, p = [0, 0, 0], rot = [0, 0, 0], s = 1, line = 3, fallback = null }) => {
+  const src = useGlb(name);
+  const { size } = useThree();
+  const obj = useMemo(() => {
+    if (!src) return null;
+    const root = src.clone(true);
+    const lm = new LineMaterial({ color: new THREE.Color(INK).getHex(), linewidth: line, resolution: new THREE.Vector2(size.width, size.height) });
+    const meshes: THREE.Mesh[] = [];
+    root.traverse((o) => { if ((o as THREE.Mesh).isMesh) meshes.push(o as THREE.Mesh); });
+    for (const m of meshes) {
+      const old = m.material as THREE.MeshStandardMaterial;
+      const em = old.emissive && (old.emissive.r + old.emissive.g + old.emissive.b) > 0.01;
+      m.material = em
+        ? new THREE.MeshBasicMaterial({ color: old.emissive.clone().multiplyScalar(1.0), toneMapped: false })
+        : new THREE.MeshToonMaterial({ color: old.color ?? new THREE.Color("#888"), gradientMap: ramp });
+      const eg = new LineSegmentsGeometry(); eg.setPositions(new THREE.EdgesGeometry(m.geometry, 35).attributes.position.array as Float32Array);
+      m.add(new LineSegments2(eg, lm));
+    }
+    return root;
+  }, [src, size, line]);
+  if (!obj) return <>{fallback}</>;
+  const sc: V3 = typeof s === "number" ? [s, s, s] : s;
+  return <primitive object={obj} position={p} rotation={rot} scale={sc} />;
+};

diff --git a/brain/stick3d/README.md b/brain/stick3d/README.md
@@ -32,3 +32,24 @@ in the Golden Neon colour theme (black/navy rooms, gold #f5b942 + coral #ff7a59 
 - Owner may record his own narration (more real than TTS). Upload folder: Drive "What if/Voice recordings (upload here)"
   id 1F6XSSLmmOwDsKYZEjTQLwjTJO5NjTLoA. Pipeline path to add when the first file arrives: use the uploaded file as
   voice.wav and run pipeline/voice/align_words.py (word timings) instead of Kokoro; captions follow the real voice.
+## Blender objects (built headless on GitHub Actions, saved for reuse in every later video)
+How: write blender/models/<name>.py (helpers in blender/models/_lib.py: palette, box/cyl/ball/torus, export, preview), push ->
+workflow blender-models (Blender 4.2.3 LTS tarball, cached) writes library/models/<name>.glb + previews/<name>.png +
+BUILD-LOG.txt and commits them back ([skip ci]). Use in Remotion: `<Glb name="couch" p=... fallback={...} />`
+(library/stick3d/glb.tsx: toon material + ink outlines, emissive parts unlit; served via public/models -> ../library/models).
+Units: 1 = scene unit (puppet h 2.5); origin at floor centre unless noted; front faces the camera (+Z in three).
+
+| name | file | what it is | colours | used in |
+|---|---|---|---|---|
+| couch | library/models/couch.glb | 3-seat couch, seat top 0.92, puppet sits inside the seat (legs hidden) | navy #252d48/#2e3758, coral pillow, gold emissive base strip | wi-gta-nosleep den (hook, crash, hour0, hour17, hour24, micro, ask) |
+| side_table | library/models/side_table.glb | snack side table, top at 1.0, lower shelf | dark wood #3a2717/#24180e, gold emissive edge | den |
+| game_controller | library/models/game_controller.glb | controller 0.56 wide (origin centre) | dark #1c2032, coral/gold/amber buttons, gold light bar | Remy's hands, speedrun station |
+| chips_bag | library/models/chips_bag.glb | chips bag 0.62 tall | coral, gold band | den snacks |
+| soda_can | library/models/soda_can.glb | can 0.34 tall | gold metal, coral band | den snacks |
+| pizza_box | library/models/pizza_box.glb | pizza box 0.95 square | cardboard #b9772e, coral logo | den snacks |
+| smartphone | library/models/smartphone.glb | phone on a stand (origin centre), screen drawn in scene | dark, ink screen | hour0 (SILENT) |
+| toy_car | library/models/toy_car.glb | toy car 1.35 long along +X | coral, dark glass/wheels, cyan headlights, gold roof light | hour24 game road |
+| mic_stand | library/models/mic_stand.glb | mic stand, mic at ~1.95 | dark base, steel pole, gold ring | day2 stage |
+| radio_1964 | library/models/radio_1964.glb | 1960s table radio | walnut #5a3a1e, amber dial/grille | 1964 room |
+| tv_1964 | library/models/tv_1964.glb | 1960s console TV with rabbit ears (top ~2.9) | wood, dark screen, cream knobs | 1964 room (OFF) |
+| bed_1964 | library/models/bed_1964.glb | wooden bed 4.4 long, headboard at -X, mattress top 0.95 | wood, cream mattress, white pillow, gold trim | Randy sleeps 14 h |

diff --git a/brain/render-log.md b/brain/render-log.md
@@ -189,3 +189,6 @@ Private repos get 2,000 free Linux minutes per month; the workflows warn at 1,50
 - ~2 s per half-scale still locally (swangle). Real timing comes from words.json at render time (all beats cue-driven).
 | 2026-11-21 13:49 | render-stills | wi-gta-nosleep  | stills | 2 | 1607 | running (run 44910624186) |
 | 2026-11-21 13:59 | render-stills | wi-gta-nosleep  | stills | 1 | 1608 | running (run 44911562601) |
+- 2026-11-21 (later): What If #1 now uses 12 Blender props (library/models, built by workflow blender-models) via
+  library/stick3d/glb.tsx, and a per-scene lighting rig (key + fill + gold rim + hero pool + motivated practicals:
+  lamp/TV/neon/window, cyan game light on the road, footlights on stage, gold calendar/blocks, coral stations).
